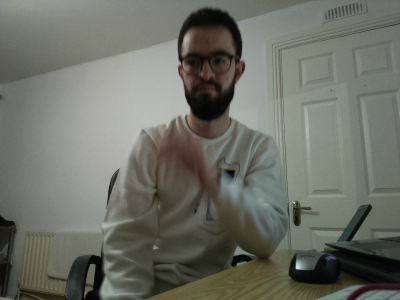
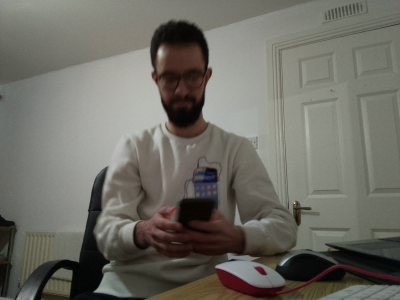
from the lab after testing the body move

Changed region(s): [[0.03, 0.0, 1.0, 1.0], [0.84, 0.66, 0.93, 0.81], [0.42, 0.93, 0.45, 0.96]]

diff --git a/body-detect/rassPiAndBody.py b/body-detect/rassPiAndBody.py
@@ -1,0 +1,31 @@
+from gpiozero import MotionSensor
+from picamera import PiCamera
+import time
+import RPi.GPIO as GPIO
+from datetime import datetime
+import subprocess
+
+x= True
+GPIO.setmode(GPIO.BCM)
+GPIO.setwarnings(False)
+GPIO.setup(18,GPIO.OUT)
+
+
+pir = MotionSensor(4)
+camera = PiCamera()
+camera.rotation = 180
+#camera.resolution = (400,300)
+
+x= True
+while x:
+    print("project start")
+    timeNow = str(datetime.now().strftime("%H,%M,%S"));
+    pir.wait_for_motion()
+    #camera.capture("/home/pi/year4/projectEIH/rassPi/pictres/"+timeNow+".png")
+    camera.capture("/home/pi/year4/projectEIH/body-detect/images/pic.png")
+    GPIO.output(18,GPIO.HIGH)
+    subprocess.run(["python /home/pi/year4/projectEIH/body-detect/detect.py --images /home/pi/year4/projectEIH/body-detect/images/"], shell=True)
+    print("selfie taken  " + timeNow)
+    #pir.wait_for_no_motion()
+    GPIO.output(18,GPIO.LOW)
+    print("LED OFF " + str(datetime.now().strftime("%H,%M,%S")))

diff --git a/rassPi/detect.py b/rassPi/detect.py
@@ -53,6 +53,6 @@ for imagePath in imagePaths:
 		filename, len(rects), len(pick)))
 
 	# show the output images
-	#cv2.imshow("Before NMS", orig)
-	#cv2.imshow("After NMS", image)
-	#cv2.waitKey(0)
+	cv2.imshow("Before NMS", orig)
+	cv2.imshow("After NMS", image)
+	cv2.waitKey(0)
